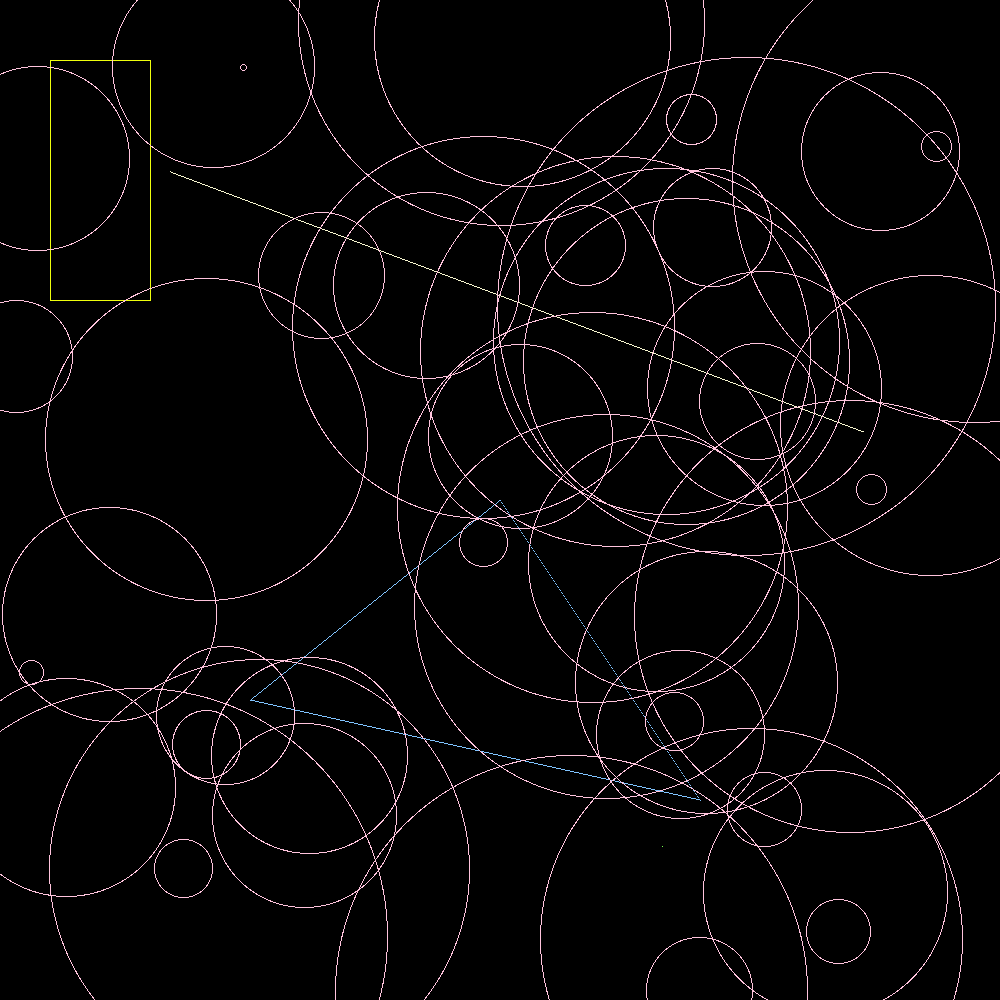
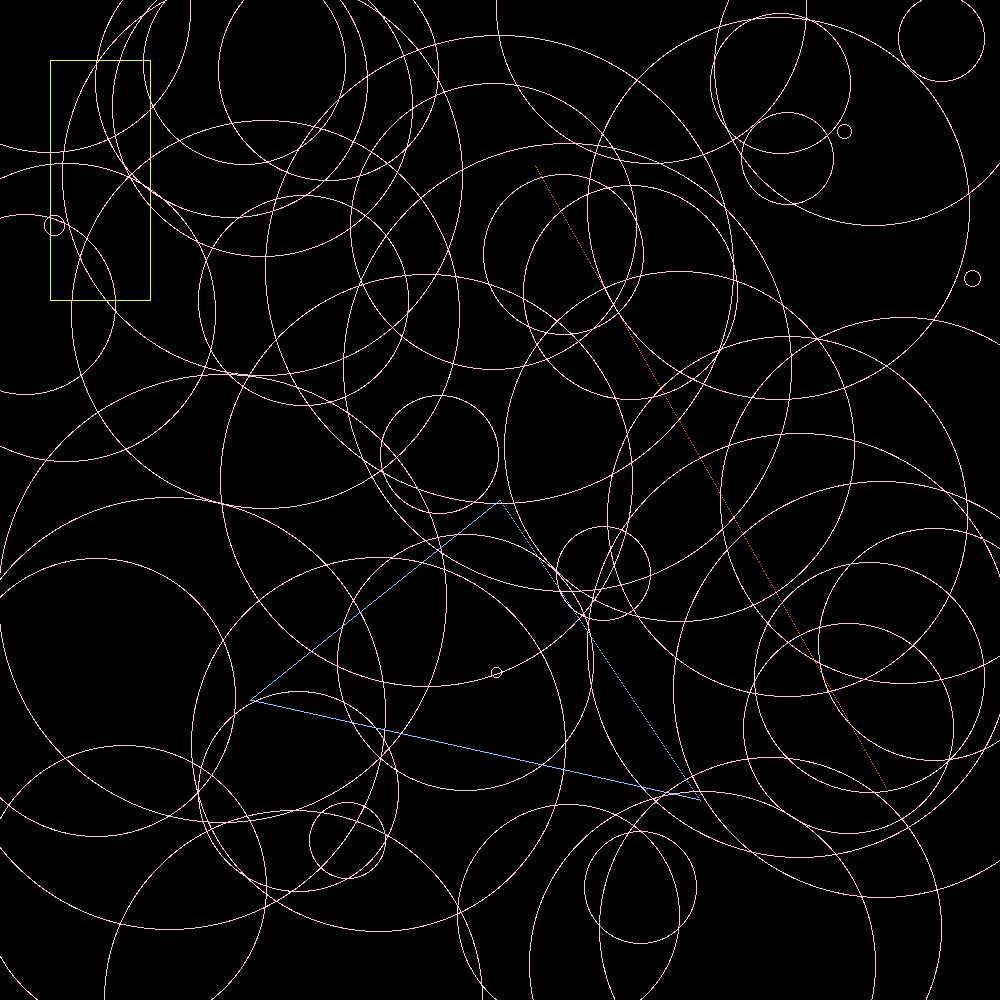
fix warning

diff --git a/src/geometrical_shapes.rs b/src/geometrical_shapes.rs
@@ -5,17 +5,8 @@ pub trait Drawable {
     fn draw(&self, image: &mut Image);
     fn color(&self) -> Color;
 }
-
 pub trait Displayable {
     fn display(&mut self, x: i32, y: i32, color: Color);
-}
-
-impl Displayable for Image {
-    fn display(&mut self, x: i32, y: i32, color: Color) {
-        if x >= 0 && x < self.width && y >= 0 && y < self.height {
-            self.set_pixel(x, y, color).unwrap();
-        }
-    }
 }
 
 //POint
@@ -24,7 +15,6 @@ pub struct Point {
     pub x: i32,
     pub y: i32,
 }
-
 impl Point {
     pub fn new(x: i32, y: i32) -> Point {
         Point { x, y }
@@ -37,7 +27,6 @@ impl Point {
         }
     }
 }
-
 impl Drawable for Point {
     fn draw(&self, image: &mut Image) {
         image.display(self.x, self.y, self.color());
@@ -53,8 +42,8 @@ pub struct Line {
     pub point1: Point,
     pub point2: Point,
 }
-
 impl Line {
+    #[allow(dead_code)]
     pub fn new(p1: &Point, p2: &Point) -> Line {
         Line {
             point1: *p1,
@@ -69,7 +58,6 @@ impl Line {
         }
     }
 }
-
 impl Drawable for Line {
     fn draw(&self, image: &mut Image) {
         let x1 = self.point1.x;
@@ -96,7 +84,7 @@ impl Drawable for Line {
     }
 
     fn color(&self) -> Color {
-        Color::rgb(247, 246, 207)
+        Color::rgb(250, 117, 0)
     }
 }
 
@@ -107,7 +95,6 @@ pub struct Triangle {
     pub point2: Point,
     pub point3: Point,
 }
-
 impl Triangle {
     pub fn new(p1: &Point, p2: &Point, p3: &Point) -> Triangle {
         Triangle {
@@ -117,7 +104,6 @@ impl Triangle {
         }
     }
 }
-
 impl Drawable for Triangle {
     fn draw(&self, image: &mut Image) {
         let points = [
@@ -155,7 +141,6 @@ pub struct Rectangle {
     pub point1: Point,
     pub point2: Point,
 }
-
 impl Rectangle {
     pub fn new(p1: &Point, p2: &Point) -> Rectangle {
         Rectangle {
@@ -164,7 +149,6 @@ impl Rectangle {
         }
     }
 }
-
 impl Drawable for Rectangle {
     fn draw(&self, image: &mut Image) {
         let min_x = self.point1.x.min(self.point2.x);
@@ -214,8 +198,8 @@ pub struct Circle {
     pub center: Point,
     pub radius: i32,
 }
-
 impl Circle {
+    #[allow(dead_code)]
     pub fn new(c: &Point, r: i32) -> Circle {
         Circle {
             center: *c,
@@ -235,7 +219,6 @@ impl Circle {
         }
     }
 }
-
 impl Drawable for Circle {
     fn draw(&self, image: &mut Image) {
         let xc = self.center.x;

diff --git a/src/main.rs b/src/main.rs
@@ -27,4 +27,11 @@ fn main() {
 
     raster::save(&image, "image.png").unwrap();
 }
+impl Displayable for Image {
+    fn display(&mut self, x: i32, y: i32, color: Color) {
+        if x >= 0 && x < self.width && y >= 0 && y < self.height {
+            self.set_pixel(x, y, color).unwrap();
+        }
+    }
+}
 
